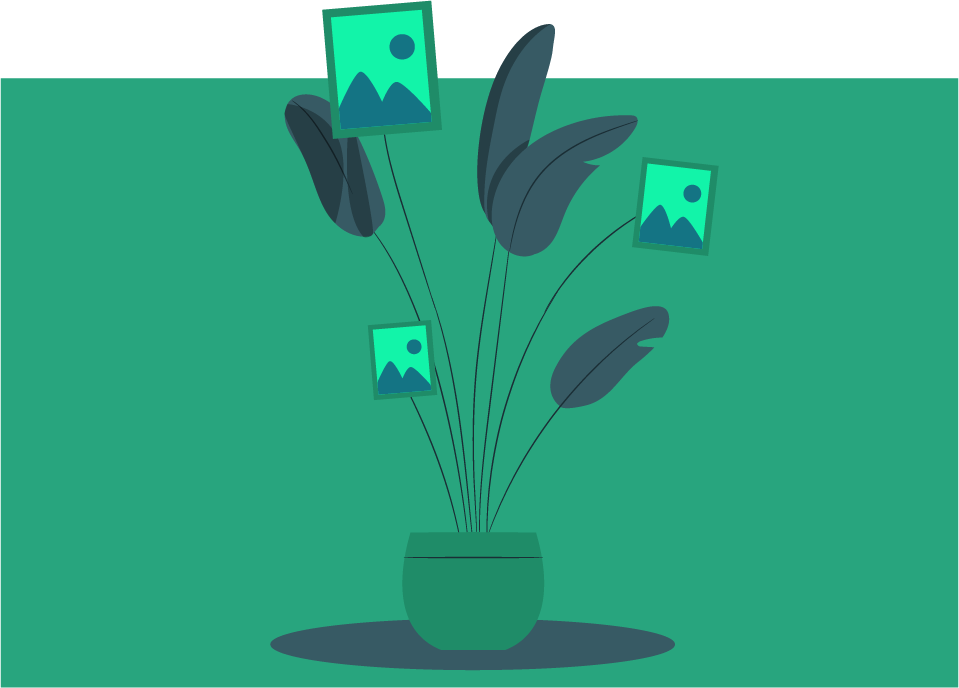
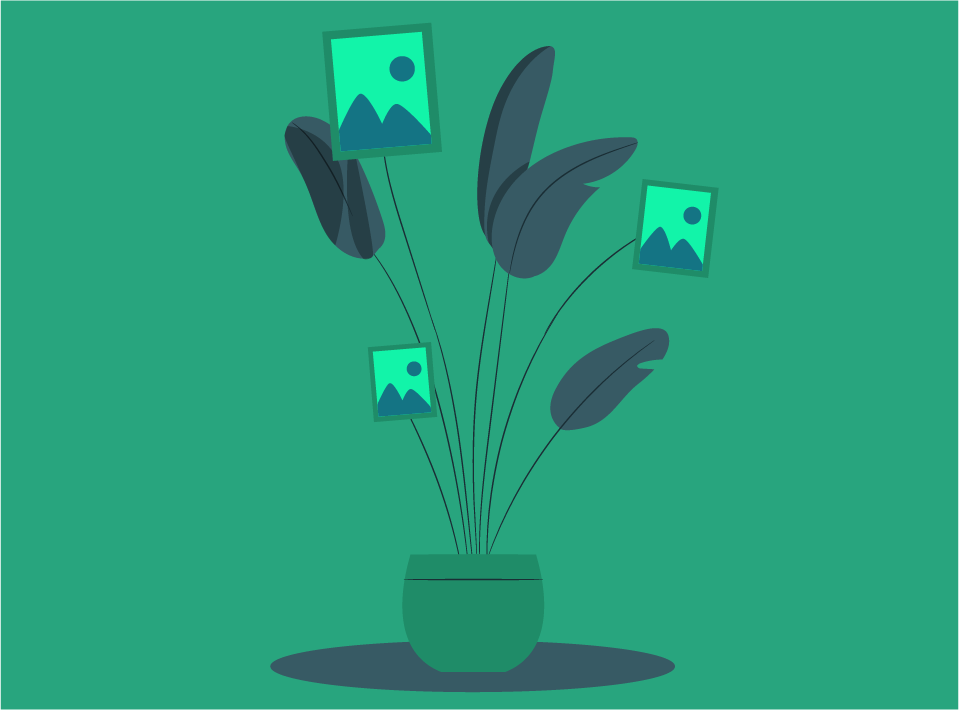
add catalog card item

diff --git a/lib/presentation/catolog/presentation/catalog_screen.dart b/lib/presentation/catolog/presentation/catalog_screen.dart
@@ -73,66 +73,74 @@ class _CatalogScreenState extends State<CatalogScreen> {
         backgroundColor: AppColors.greenLight,
         child: const Icon(LucideIcons.plus, color: AppColors.blueGreen),
       ),
-      body: Padding(
-        padding: const EdgeInsets.symmetric(horizontal: 20),
-        child: widget.catalogs.isEmpty
-            ? const Column(
-                crossAxisAlignment: CrossAxisAlignment.start,
-                children: [
-                  Padding(
-                    padding: EdgeInsets.only(top: 20),
-                    child: TitlePage(
-                      title: 'Mes plantes',
-                      subtitle: 'Mon catalogue de plantes à partager',
-                    ),
+      body: widget.catalogs.isEmpty
+          ? const Column(
+              crossAxisAlignment: CrossAxisAlignment.start,
+              children: [
+                Padding(
+                  padding: EdgeInsets.only(top: 20, left: 20, right: 20),
+                  child: TitlePage(
+                    title: 'Mes plantes',
+                    subtitle: 'Mon catalogue de plantes à partager',
                   ),
-                  SizedBox(height: 90),
-                  Row(
-                    children: [
-                      Expanded(child: CatalogCardIsEmpty()),
-                    ],
+                ),
+                SizedBox(height: 90),
+                Row(
+                  children: [
+                    Expanded(
+                        child: Padding(
+                      padding: EdgeInsets.symmetric(horizontal: 20),
+                      child: CatalogCardIsEmpty(),
+                    )),
+                  ],
+                ),
+                SizedBox(height: 30),
+                Text(
+                  'Ton catalogue est vide. Ajoute ta première plante pour commencer.',
+                ),
+              ],
+            )
+          : Column(
+              crossAxisAlignment: CrossAxisAlignment.start,
+              children: [
+                const Padding(
+                  padding: EdgeInsets.only(top: 20, left: 20, right: 20),
+                  child: TitlePage(
+                    title: 'Mes plantes',
+                    subtitle: 'Mon catalogue de plantes à partager',
                   ),
-                  SizedBox(height: 30),
-                  Text(
-                    'Ton catalogue est vide. Ajoute ta première plante pour commencer.',
-                  ),
-                ],
-              )
-            : Column(
-                crossAxisAlignment: CrossAxisAlignment.start,
-                children: [
-                  const Padding(
-                    padding: EdgeInsets.only(top: 20),
-                    child: TitlePage(
-                      title: 'Mes plantes',
-                      subtitle: 'Mon catalogue de plantes à partager',
-                    ),
-                  ),
-                  Padding(
-                    padding: const EdgeInsets.only(top: 10),
-                    child: buildFamilyFilterTabs(),
-                  ),
-                  Expanded(
-                    child: BlocBuilder<CatalogCubit, CatalogState>(
-                      builder: (context, state) {
-                        return switch (state) {
-                          CatalogInitial() || CatalogLoading() => const Center(
-                              child: CircularProgressIndicator(),
+                ),
+                Padding(
+                  padding: const EdgeInsets.only(top: 10, left: 20, right: 20),
+                  child: buildFamilyFilterTabs(),
+                ),
+                Expanded(
+                  child: BlocBuilder<CatalogCubit, CatalogState>(
+                    builder: (context, state) {
+                      return switch (state) {
+                        CatalogInitial() || CatalogLoading() => const Center(
+                            child: CircularProgressIndicator(),
+                          ),
+                        CatalogError() => Center(
+                            child: Text(
+                              'Erreur de chargement du catalogue',
+                              style: Theme.of(context).textTheme.bodyLarge,
                             ),
-                          CatalogError() => Center(
-                              child: Text(
-                                'Erreur de chargement du catalogue',
-                                style: Theme.of(context).textTheme.bodyLarge,
-                              ),
+                          ),
+                        CatalogLoaded() => Container(
+                            color: AppColors.greyUltraLight,
+                            child: Padding(
+                              padding:
+                                  const EdgeInsets.symmetric(horizontal: 20),
+                              child: catalogGridView(state.catalogs),
                             ),
-                          CatalogLoaded() => catalogGridView(state.catalogs),
-                        };
-                      },
-                    ),
+                          ),
+                      };
+                    },
                   ),
-                ],
-              ),
-      ),
+                ),
+              ],
+            ),
     );
   }
 
@@ -149,47 +157,28 @@ class _CatalogScreenState extends State<CatalogScreen> {
           }).toList();
 
     if (filteredCatalogs.isEmpty) {
-      return Padding(
-        padding: const EdgeInsets.only(top: 20),
-        child: Column(
-          children: [
-            const Image(
-              image: AssetImage('assets/images/empty_catalog_filter.png'),
-              height: 250,
-              width: double.infinity,
-              //fit: BoxFit.cover,
+      return Center(
+        child: Padding(
+          padding: const EdgeInsets.only(top: 50),
+          child: Text(
+            'Aucun résultat',
+            style: TextStyle(
+              fontSize: 16,
+              color: Colors.grey.shade600,
+              fontWeight: FontWeight.w500,
             ),
-            Padding(
-              padding: const EdgeInsets.only(top: 20),
-              child: Center(
-                child: Text(
-                  'Aucune plante(s) trouvée(s) ici.',
-                  style: TextStyle(
-                    fontSize: 16,
-                    color: Colors.grey.shade600,
-                    fontWeight: FontWeight.w500,
-                  ),
-                ),
-              ),
-            ),
-          ],
+          ),
         ),
       );
     }
 
-    return GridView.builder(
+    return Padding(
       padding: const EdgeInsets.only(top: 10, bottom: 100),
-      gridDelegate: const SliverGridDelegateWithFixedCrossAxisCount(
-        crossAxisCount: 2,
-        mainAxisSpacing: 20,
-        crossAxisSpacing: 20,
-        childAspectRatio: 0.75,
+      child: ListView(
+        children: filteredCatalogs
+            .map((catalog) => CatalogCardItem(catalog: catalog))
+            .toList(),
       ),
-      itemCount: filteredCatalogs.length,
-      itemBuilder: (context, index) {
-        final catalog = filteredCatalogs[index];
-        return CatalogCardItem(catalog: catalog);
-      },
     );
   }
 
@@ -243,7 +232,7 @@ class _CatalogScreenState extends State<CatalogScreen> {
                 height: 6,
                 decoration: const BoxDecoration(
                   shape: BoxShape.circle,
-                  color: Colors.green,
+                  color: AppColors.greenDark,
                 ),
               )
             else

diff --git a/lib/presentation/catolog/presentation/catalog_card_item.dart b/lib/presentation/catolog/presentation/catalog_card_item.dart
@@ -1,4 +1,5 @@
 import 'package:flutter/material.dart';
+import 'package:plant_match_v2/core/theme/app_colors.dart';
 import 'package:plant_match_v2/presentation/catolog/domain/entity/catalog.dart';
 
 class CatalogCardItem extends StatelessWidget {
@@ -8,34 +9,63 @@ class CatalogCardItem extends StatelessWidget {
 
   @override
   Widget build(BuildContext context) {
-    return Card(
-      shape: RoundedRectangleBorder(
-        borderRadius: BorderRadius.circular(10),
-      ),
-      child: Padding(
-        padding: const EdgeInsets.all(16.0),
-        child: Column(
+    return Padding(
+      padding: const EdgeInsets.symmetric(vertical: 8),
+      child: Container(
+        decoration: BoxDecoration(
+          borderRadius: BorderRadius.circular(12),
+          color: AppColors.white,
+          boxShadow: [
+            BoxShadow(
+              color: AppColors.black.withOpacity(0.1),
+              blurRadius: 4,
+              offset: const Offset(0, 2),
+            ),
+          ],
+        ),
+        padding: const EdgeInsets.all(12),
+        child: Row(
           crossAxisAlignment: CrossAxisAlignment.start,
           children: [
-            Text(
-              catalog.name,
+            ClipRRect(
+              borderRadius: BorderRadius.circular(12),
+              child: catalog.images.isNotEmpty &&
+                      catalog.images.first.startsWith('http')
+                  ? Image.network(
+                      catalog.images.first,
+                      height: 90,
+                      width: 100,
+                      fit: BoxFit.cover,
+                    )
+                  : const Image(
+                      image: AssetImage('assets/images/empty_picture.png'),
+                      height: 90,
+                      width: 100,
+                      fit: BoxFit.cover,
+                    ),
             ),
-            const SizedBox(height: 8),
-            Text(catalog.description),
-            if (catalog.images.isNotEmpty &&
-                catalog.images.first.startsWith('http'))
-              Image.network(
-                catalog.images.first,
-                height: 100,
-                width: double.infinity,
-                fit: BoxFit.cover,
-              )
-            else
-              const Image(
-                image: AssetImage('assets/images/empty_picture.png'),
-                height: 100,
-                width: double.infinity,
+            const SizedBox(width: 12),
+            Expanded(
+              child: Column(
+                crossAxisAlignment: CrossAxisAlignment.start,
+                children: [
+                  Text(
+                    catalog.name,
+                    style: const TextStyle(
+                      fontSize: 14,
+                      fontWeight: FontWeight.bold,
+                    ),
+                  ),
+                  const SizedBox(height: 6),
+                  Text(
+                    catalog.description,
+                    maxLines: 2,
+                    overflow: TextOverflow.ellipsis,
+                    style: const TextStyle(fontSize: 12, color: Colors.grey),
+                  ),
+                ],
               ),
+            ),
           ],
         ),
       ),
